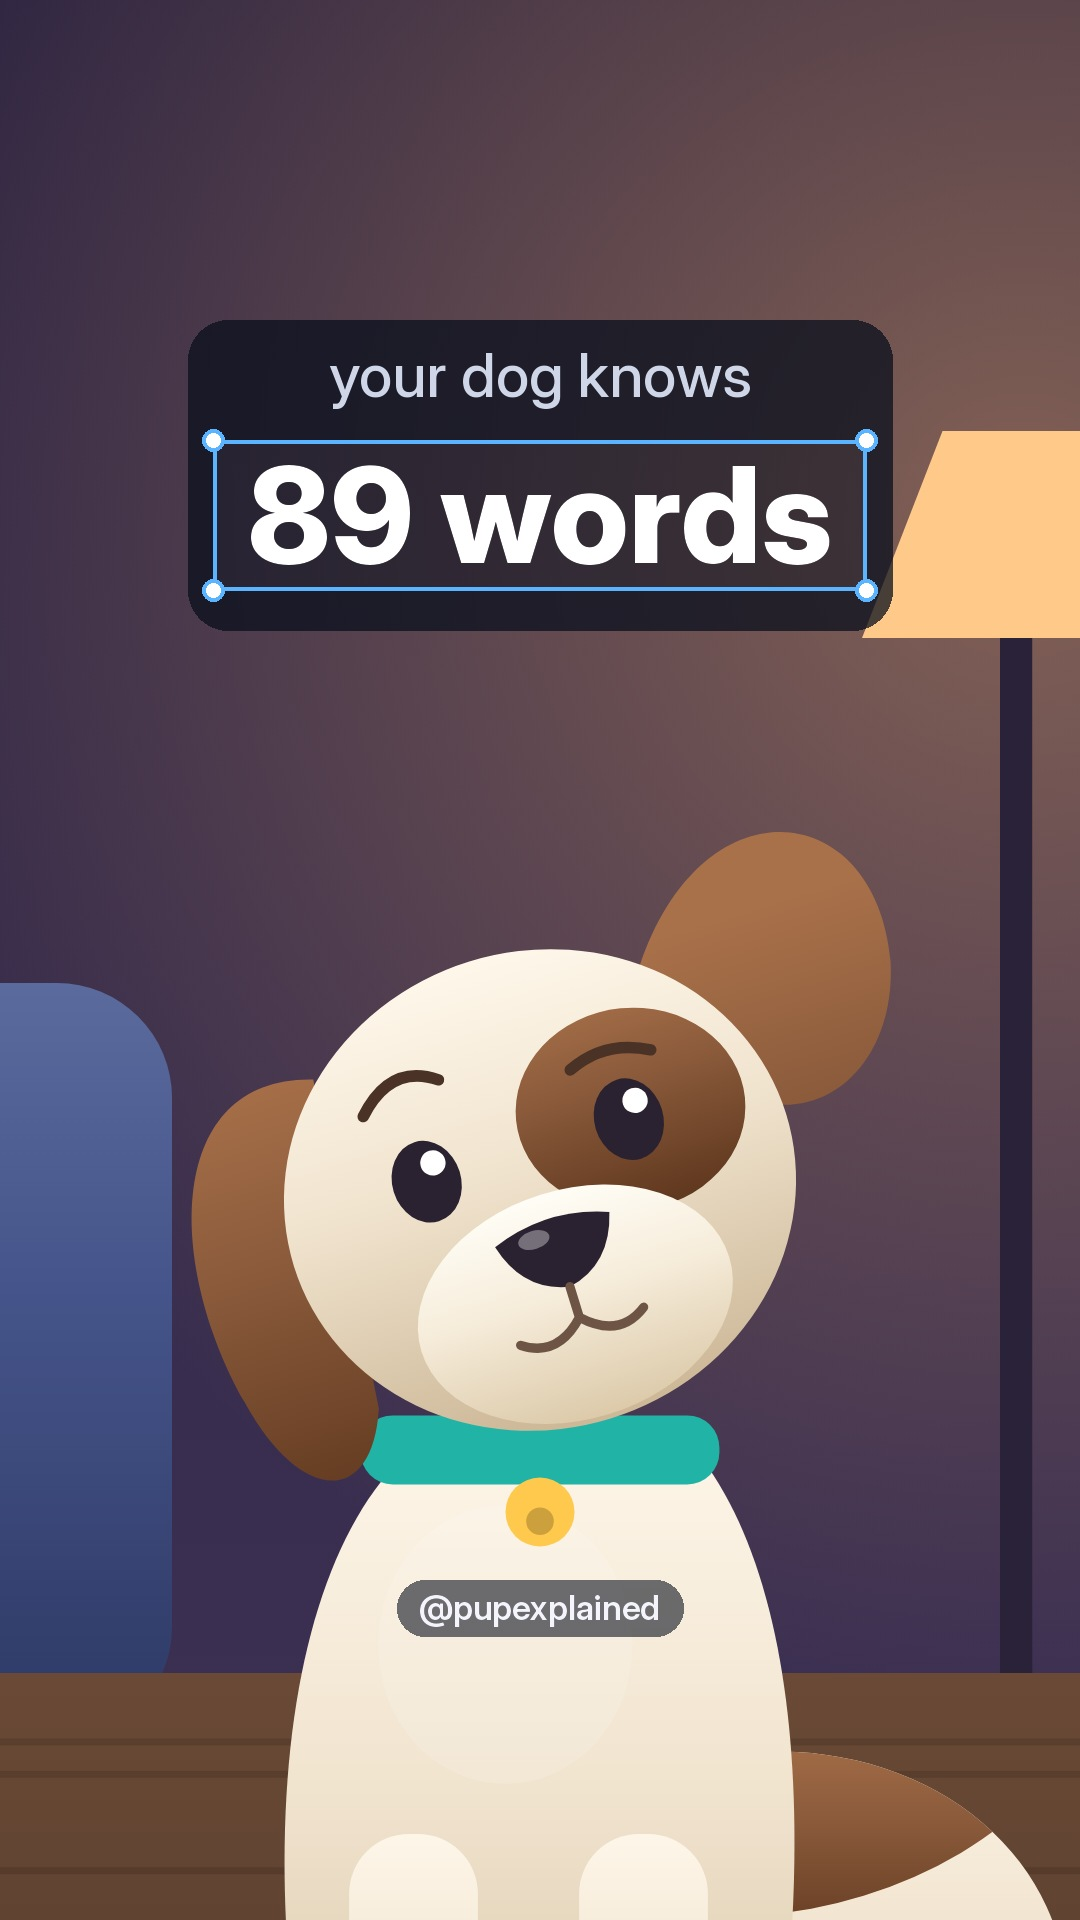
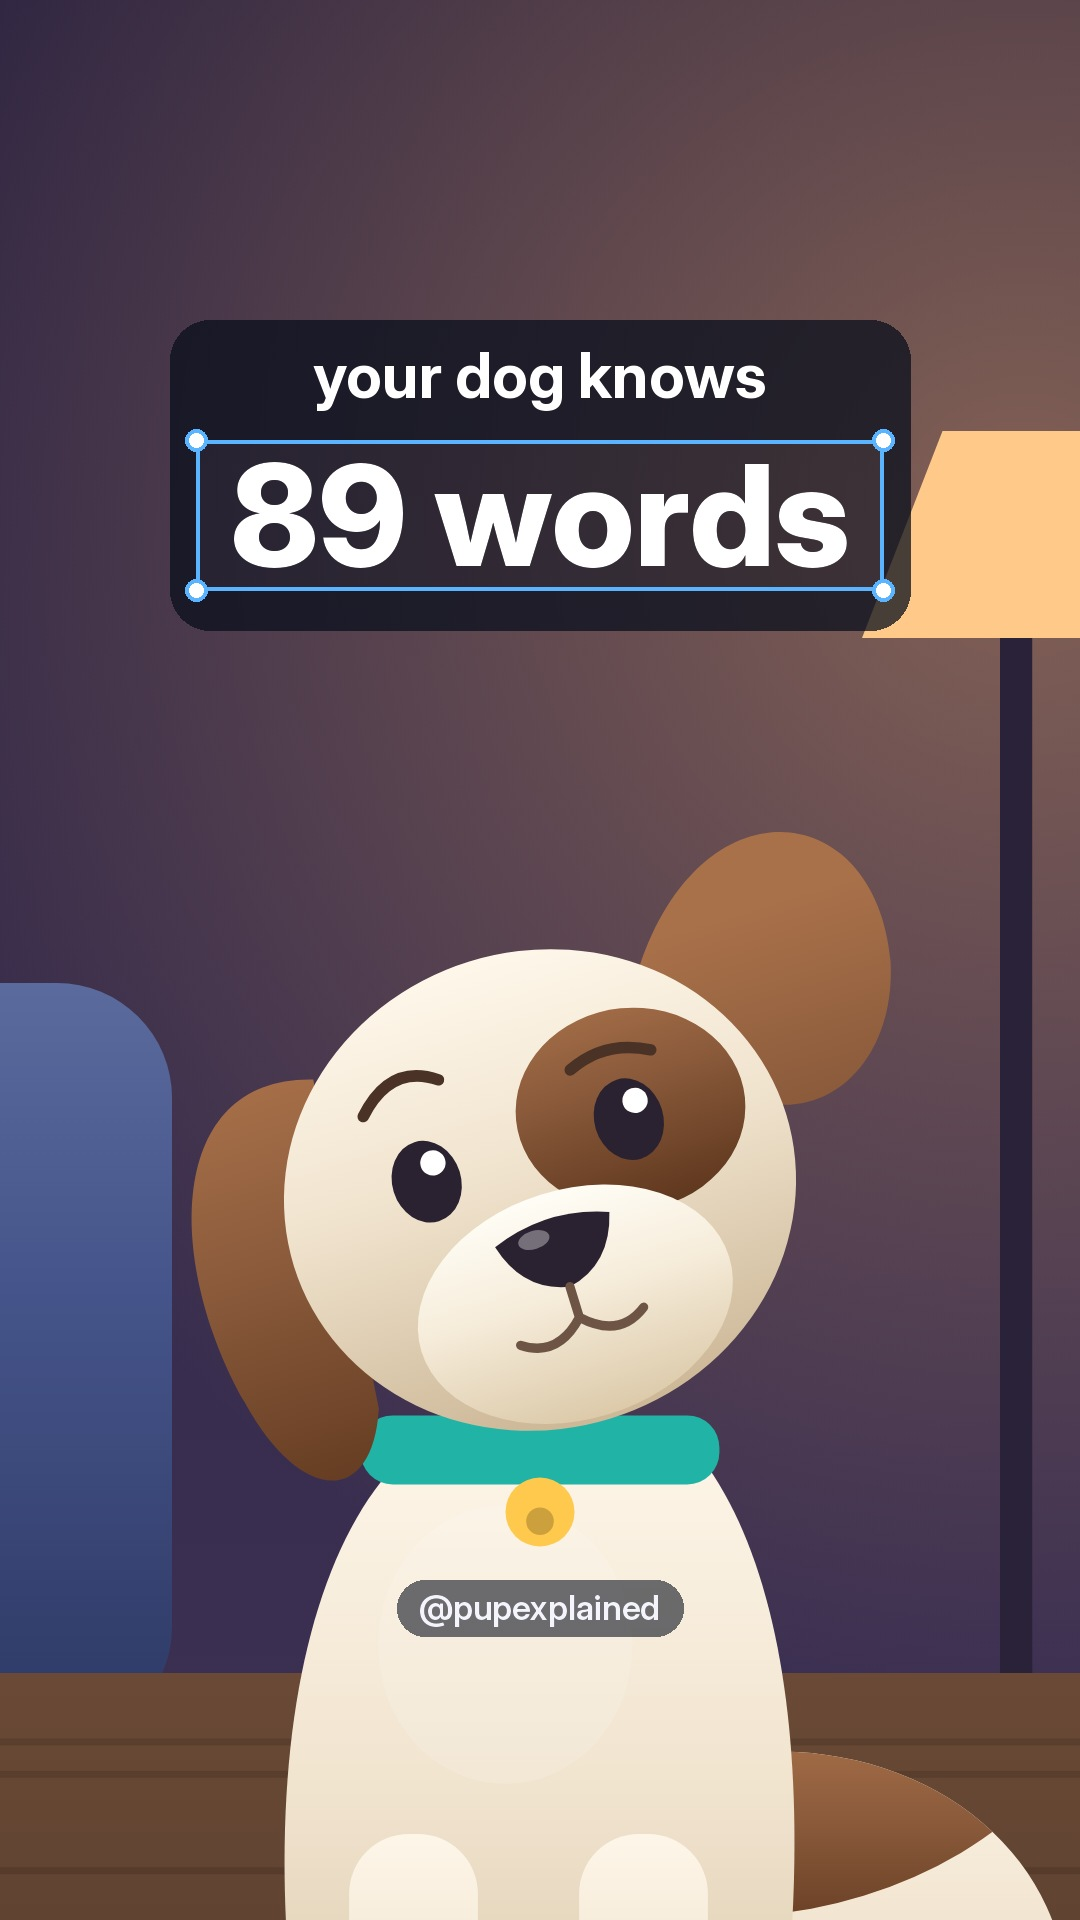
Covers: bold white lead on Pet Cam covers; Pixel Scan covers slid down to clear the 3:4 crop
Claude-Session: https://claude.ai/code/session_01GLiioKjCKQwiWDGFGiBjjQ

Changed region(s): [[0.1528, 0.1562, 0.8556, 0.3438]]

diff --git a/covers/make_covers.py b/covers/make_covers.py
@@ -1,6 +1,6 @@
 # Cover images for Shorts / Reels (1080x1920). Everything that matters sits inside the middle 1080x1440 (the Instagram grid's 3:4 crop).
 # Pet Cam: a clean close-up from the film (rendered with window.COVER = true) + the hook as a big two-tier title.
-# Pixel Scan: the film's own title-slam frame (t = 2 s), nudged down so the title clears the crop.
+# Pixel Scan: the film's own hook frame (t = 2 s, X on), slid down 40 px so the title clears the crop.
 import sys, os
 from PIL import Image, ImageDraw, ImageFont
 SRC, OUT = sys.argv[1], os.path.dirname(os.path.abspath(__file__))
@@ -18,11 +18,11 @@ PET = [  # film frame, lead line, key phrase, meaning colour, output name
 for src, lead, key, kind, name in PET:
     im = Image.open(os.path.join(SRC, src)).convert('RGBA')
     ov = Image.new('RGBA', im.size, (0, 0, 0, 0)); d = ImageDraw.Draw(ov)
-    fl, fk = inter(60, 500), inter(132, 800)
+    fl, fk = inter(62, 700), inter(140, 800)   # bold white lead, like the videos' hook
     wl = d.textlength(lead, font=fl); wk = d.textlength(key, font=fk)
     cy = 470; pw = max(wl, wk) + 120
     d.rounded_rectangle([540 - pw / 2, cy - 150, 540 + pw / 2, cy + 160], 40, fill=(8, 14, 28, 190))
-    d.text((540, cy - 95), lead, font=fl, fill=(206, 214, 232, 255), anchor='mm')
+    d.text((540, cy - 95), lead, font=fl, fill=(255, 255, 255, 255), anchor='mm')
     col = ACC[kind]; bx0, by0, bx1, by1 = 540 - wk / 2 - 34, cy - 30, 540 + wk / 2 + 34, cy + 120
     d.rectangle([bx0, by0, bx1, by1], fill=(10, 16, 30, 140), outline=col + (255,), width=4)
     for x, y in [(bx0, by0), (bx1, by0), (bx0, by1), (bx1, by1)]: d.ellipse([x - 11, y - 11, x + 11, y + 11], fill=(255, 255, 255, 255), outline=col + (255,), width=4)
@@ -33,6 +33,6 @@ for src, lead, key, kind, name in PET:
     Image.alpha_composite(im, ov).convert('RGB').save(os.path.join(OUT, name + '.jpg'), quality=93)
 for film in ['quit-alcohol', 'quit-vaping', 'quit-sugar']:
     im = Image.open(os.path.join(SRC, film + '_2.png')).convert('RGB')
-    sm = im.resize((1026, 1824), Image.LANCZOS); out = im.copy(); out.paste(sm, (27, 48))   # 95%, centred: title and booth plate both inside the crop
+    out = im.copy(); out.paste(im.crop((0, 0, 1080, 1880)), (0, 40)); out.paste(im.crop((0, 0, 1080, 40)), (0, 0))   # slide down 40 px: the title clears the top of the 3:4 crop, no visible edge
     out.save(os.path.join(OUT, 'pixel-' + film.replace('quit-', 'quit-') + '.jpg'), quality=93)
 print('ok')
